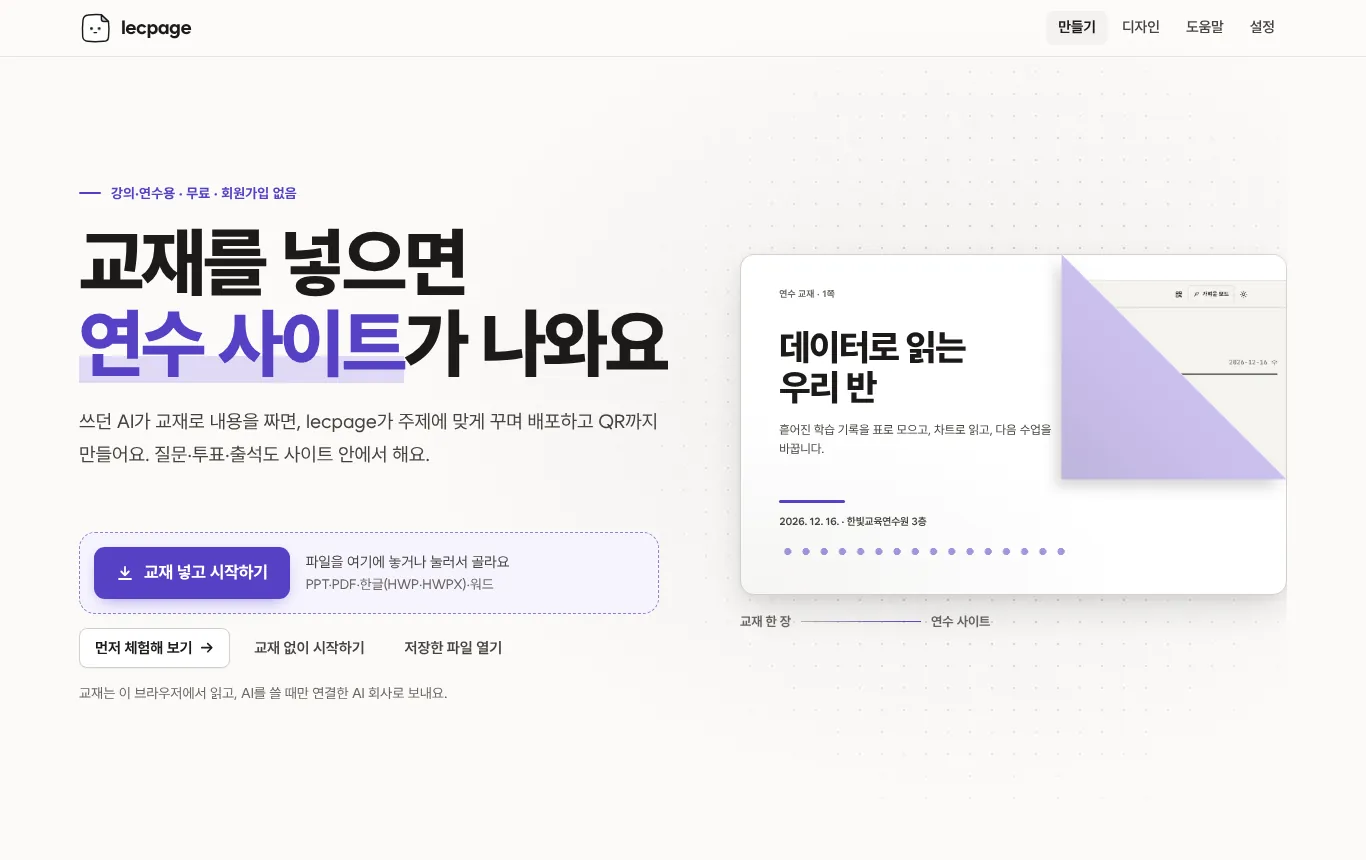
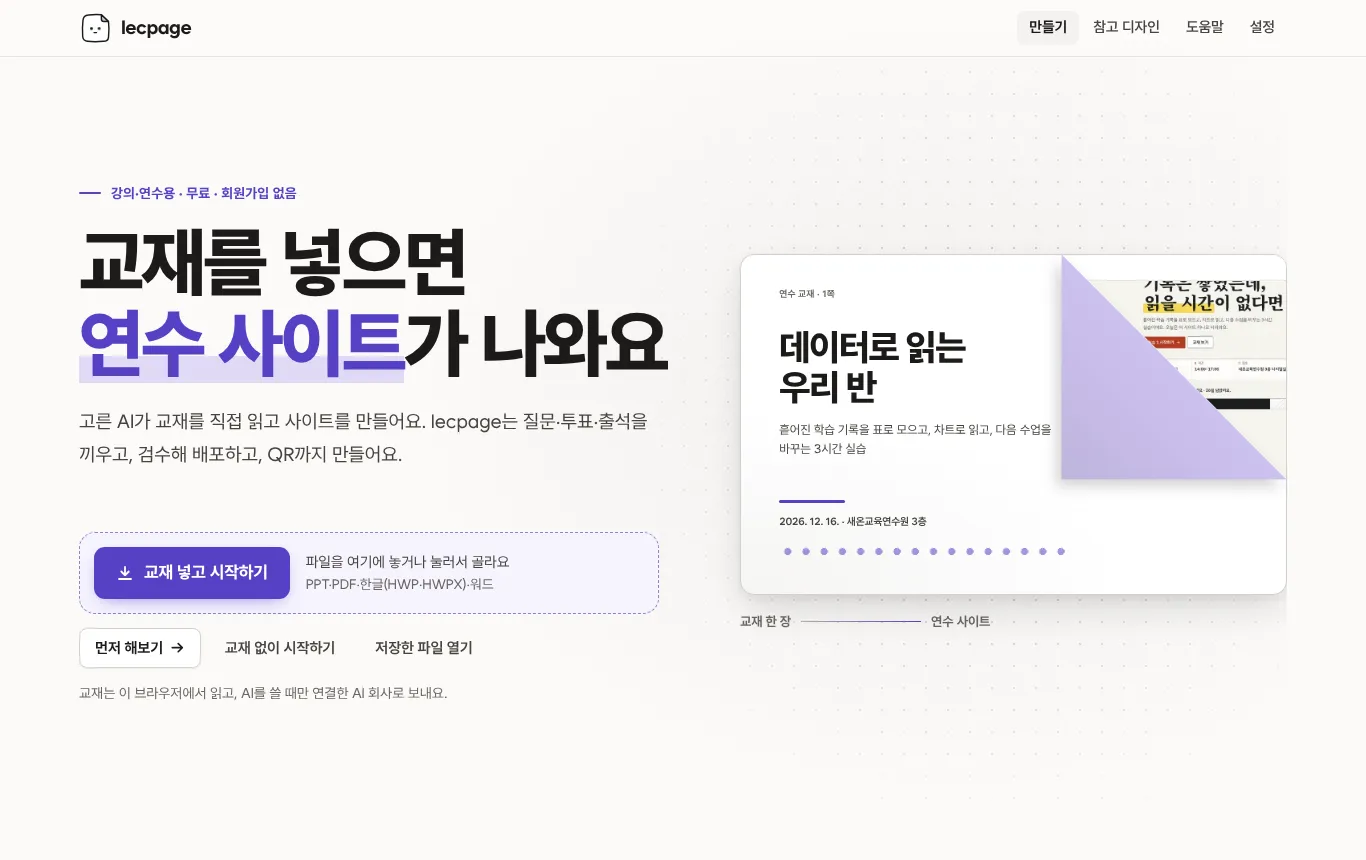
다시 만들기 중에는 진행 단계, 멈추거나 실패하면 완성 화면 위 띠(이어서 하기·그만두기, 지금 사이트 그대로), 쓰던 AI 창에서 고친 사이트 전체가 연수 정보 없이 오면 지금 연수 정보를 지킴, README 첫 화면 그림 새로
Claude-Session: https://claude.ai/code/session_01HqP3sDeio7vDaD8gojGxBH

diff --git a/app/src/pages/steps/Studio.jsx b/app/src/pages/steps/Studio.jsx
@@ -2,7 +2,7 @@ import { useCallback, useEffect, useMemo, useRef, useState } from 'preact/hooks'
 import { StepHead } from '../Project.jsx';
 import { Field, Tabs, Dialog, Notice } from '../../components/ui.jsx';
 import { SitePreview } from '../../components/Preview.jsx';
-import { editSite, chatEditPrompt, acceptChatAnswer, runInspect, fixIssues, stopGeneration, resumeGeneration, bridgeStatus } from '../../lib/studio.js';
+import { editSite, chatEditPrompt, acceptChatAnswer, runInspect, fixIssues, stopGeneration, resumeGeneration, forgetGeneration, bridgeStatus } from '../../lib/studio.js';
 import { getActiveAI, PROVIDERS, CHATBOTS, setChatbot } from '../../lib/ai.js';
 import { listSections, moveSection, setHidden, removeSection, renameSection, setText, setImage, imageAt, replaceText, getVar, setVar, readCss, writeCss } from '../../lib/site-doc.js';
 import { firstSession, keepTeacher, pushVersion } from '../../lib/site-meta.js';
@@ -88,7 +88,7 @@ export function Studio({ p, update, go, job, idle, reload }) {
         </div>
       </StepHead>
       {working && <JobBand job={job} onStop={() => stopGeneration(p.id)} />}
-      {(job.status === 'error' || job.status === 'paused') && job.kind && job.kind !== 'make' && <JobError p={p} job={job} go={go} />}
+      {(job.status === 'error' || job.status === 'paused') && job.kind && <JobError p={p} job={job} go={go} />}
       {!p.metaChecked && tab !== 'info' && <div class="ai-job" role="status"><span class="ai-job-t"><b>AI가 교재에서 찾은 연수 정보를 한 번 확인해 주세요.</b><small>QR 안내문·강사 화면·일정 파일에 쓰여요.</small></span><button type="button" class="btn btn-sm btn-primary" onClick={() => setTab('info')}>확인하기</button></div>}
       {p.notes?.length > 0 && <div class="ai-job" role="status"><span class="ai-job-t"><b>답을 받으며 알게 된 것</b><small>{p.notes.join(' ')}</small></span><button class="icon-btn" onClick={() => update({ notes: undefined })} aria-label="안내 닫기">✕</button></div>}
       <div class="workspace">
@@ -133,11 +133,14 @@ function JobBand({ job, onStop }) {
 
 /** AI가 고치다 멈춤(수정 요청·검수 고치기): 까닭과 할 일. 사이트는 그대로 */
 function JobError({ p, job, go }) {
-  // 다른 AI·쓰던 AI 창으로는 [수정 요청]에서 보낼 곳을 바꿔 다시 보냄
-  const acts = job.status === 'paused' ? [{ id: 'resume', label: '이어서 하기', run: () => resumeGeneration(p.id) }] : errorActions(p, job, go).filter((a) => a.id !== 'connect' && a.id !== 'paste');
+  // 고치기: 다른 AI·쓰던 AI 창으로는 [수정 요청]에서 보낼 곳을 바꿔 다시 보냄. 다시 만들기: 다른 AI 고르기·쓰던 AI 창은 교재 넣기에서
+  const make = job.kind === 'make';
+  const acts = [...(job.status === 'paused' ? [{ id: 'resume', label: '이어서 하기', run: () => resumeGeneration(p.id) }] : errorActions(p, job, go).filter((a) => make || (a.id !== 'connect' && a.id !== 'paste'))),
+    { id: 'forget', label: '그만두기', run: () => forgetGeneration(p.id) }];
   const e = job.error || {};
+  const what = make ? '다시 만들기' : '고치기';
   return (
-    <div class="ai-job bad" role="alert"><span class="ai-job-t"><b>{job.status === 'paused' ? 'AI가 고치기를 멈췄어요.' : e.title || 'AI가 고치지 못했어요.'}</b><small>{job.status === 'paused' ? '사이트는 그대로예요. [이어서 하기]를 누르면 멈춘 단계부터 해요.' : e.body || '사이트는 그대로예요.'}</small></span>
+    <div class="ai-job bad" role="alert"><span class="ai-job-t"><b>{job.status === 'paused' ? `AI가 ${what}를 멈췄어요.` : e.title || `AI가 ${make ? '다시 만들지' : '고치지'} 못했어요.`}</b><small>{job.status === 'paused' ? '지금 사이트는 그대로예요. [이어서 하기]를 누르면 멈춘 단계부터 해요.' : `${e.body || ''} 지금 사이트는 그대로예요.`.trim()}</small></span>
       {acts.map((a, i) => (a.href ? <a class={`btn btn-sm${i ? '' : ' btn-primary'}`} href={a.href} target="_blank" rel="noopener">{a.label}<span class="ext" aria-hidden="true">↗</span></a>
         : <button type="button" class={`btn btn-sm${i ? '' : ' btn-primary'}`} onClick={a.run}>{a.label}</button>))}
     </div>

diff --git a/app/src/lib/gen/index.js b/app/src/lib/gen/index.js
@@ -7,7 +7,7 @@
 import { useEffect, useState } from 'preact/hooks';
 import { projects } from '../db.js';
 import { uid } from '../util.js';
-import { startJob, resumeJob, stopJob, currentView, liveView, onJobChange, resumeIfOrphaned, inspectSite, notifySaved, versionsAfter, settle } from './job.js';
+import { startJob, resumeJob, stopJob, forgetJob, currentView, liveView, onJobChange, resumeIfOrphaned, inspectSite, notifySaved, versionsAfter, settle } from './job.js';
 import { chatDb } from './store.js';
 import * as P from './prompts.js';
 import { parseChatAnswer, extractHtml, extractSections, extractCss, replaceSections, stitch, htmlCut, trimCss } from './parse.js';
@@ -33,6 +33,8 @@ export async function startGeneration(pid, o = {}) {
 export async function resumeGeneration(pid, change = {}) { return (await resumeJob(pid, change)).jobId; }
 /** 멈추기 → status 'paused'. resumeGeneration으로 멈춘 단계부터 */
 export function stopGeneration(pid) { return stopJob(pid); }
+/** 멈추거나 실패한 작업을 그만둠(기록을 지움 → status 'idle'). 도는 중이면 하지 않음 */
+export function forgetGeneration(pid) { return forgetJob(pid); }
 
 /**
  * 진행 상태(Preact 훅). 도는 동안 1초마다 now를 넣어 다시 그림(걸린 시간).
@@ -138,11 +140,12 @@ export async function acceptChatAnswer(pid, input, { target = '' } = {}) {
   const { html, css } = splitStyles(a.html);
   const site = { 'index.html': html, ...(css ? { 'assets/style.css': css } : {}) };
   const titleTag = (/<title>([^<]*)<\/title>/i.exec(html) || [])[1] || '';
-  const raw = a.meta || { title: titleTag.trim() };
+  // 고친 사이트 전체가 왔는데 연수 정보가 없으면 지금 연수 정보를 그대로(새로 만들 때만 제목으로 시작)
+  const raw = a.meta || (edit ? { ...(p.meta || {}) } : { title: titleTag.trim() });
   if (!raw.title && titleTag) raw.title = titleTag.trim();
   const r = readMeta({ ...raw, theme: { ...(raw.theme || {}), ...themeFromCss(css) } }, { prev: p.meta });
   const problems = [
-    ...(a.meta ? [] : ['답 끝에 연수 정보(lecpage.json)가 없어 제목만 읽었어요. 연수 정보에서 확인해 주세요.']),
+    ...(a.meta || edit ? [] : ['답 끝에 연수 정보(lecpage.json)가 없어 제목만 읽었어요. 연수 정보에서 확인해 주세요.']),
     ...(r.meta.sessions?.some((s) => s?.date) ? [] : ['답에 연수 날짜가 없어요. 연수 정보에서 넣어 주세요.']),
     ...r.warnings.filter((w) => w.code !== 'teacher-value' && w.code !== 'title-empty').slice(0, 3).map((w) => w.message_ko),
   ];

diff --git a/app/src/lib/gen/job.js b/app/src/lib/gen/job.js
@@ -37,7 +37,7 @@ if (bc) {
   bc.onmessage = async (e) => {
     const m = e.data; if (!m?.pid) return;
     if (m.cmd === 'stop') { if (live.get(m.pid)?.ctrl) stopJob(m.pid); return; } // 다른 탭에서 [멈추기]를 누름 → 돌리는 이 탭이 멈춤
-    const rec = await jobsDb.get(m.pid).catch(() => null); if (rec) remote.set(m.pid, rec); emit(m.pid);
+    const rec = await jobsDb.get(m.pid).catch(() => null); if (rec) remote.set(m.pid, rec); else remote.delete(m.pid); emit(m.pid);
   };
 }
 
@@ -678,6 +678,18 @@ export function stopJob(pid) {
   const L = live.get(pid);
   if (!L?.ctrl) { try { bc?.postMessage({ pid, cmd: 'stop' }); } catch { /* 알림만 못 함 */ } return false; }
   L.stopReason = 'user'; L.ctrl.abort(); autoResume.delete(pid);
+  return true;
+}
+
+/** 멈춘·실패한 작업 기록을 지움(그만두기: 받은 글·이어 할 자리도 버림). 도는 중이면 하지 않음 */
+export async function forgetJob(pid) {
+  if (live.get(pid)?.ctrl) return false;
+  const rec = await jobsDb.get(pid).catch(() => null);
+  if (rec?.status === 'running' && await heldElsewhere(pid)) return false;
+  await jobsDb.del(pid).catch(() => { });
+  live.delete(pid); remote.delete(pid); autoResume.delete(pid);
+  try { bc?.postMessage({ pid, id: rec?.id || '', at: Date.now() }); } catch { /* 알림만 못 함 */ }
+  emit(pid);
   return true;
 }
 

diff --git a/app/src/lib/studio.js b/app/src/lib/studio.js
@@ -1,4 +1,4 @@
 // 화면이 생성·조립 쪽을 부르는 단 한 곳(docs/plan-ai-first.md §15 앱 안의 약속). 화면은 이 파일만 import합니다.
 // 생성(키·내 PC·먼저 해보기·쓰던 AI 창)은 lib/gen, 조립은 엔진 키트(E.kit)를 lib/gen/preview.js의 assembleProject 한 곳으로.
-export { startGeneration, resumeGeneration, stopGeneration, useGeneration, chatPrompt, acceptChatAnswer, editSite, chatEditPrompt, runInspect, fixIssues, bridgeStatus, assembleProject } from './gen/index.js';
+export { startGeneration, resumeGeneration, stopGeneration, forgetGeneration, useGeneration, chatPrompt, acceptChatAnswer, editSite, chatEditPrompt, runInspect, fixIssues, bridgeStatus, assembleProject } from './gen/index.js';
 export { previewHtml } from '@engine/src/kit/index.js';

diff --git a/app/src/landing/Paths.jsx b/app/src/landing/Paths.jsx
@@ -35,7 +35,7 @@ export function Paths() {
       <div class="ld-skill">
         <div>
           <h3 class="ld-h3">AI 에이전트에서 쓰기</h3>
-          <p>Claude Code·Codex·Cursor·Gemini CLI에 lecpage 스킬을 한 줄로 넣어요. 에이전트가 교재를 읽고 사이트를 직접 쓰면 lecpage가 조립·검수해요. 고치거나 배포할 때는 앱에서 이어서 해요.</p>
+          <p>Claude Code·Codex·Cursor·Gemini CLI에 lecpage 스킬을 한 줄로 넣어요. AI 에이전트가 교재를 읽고 사이트를 직접 쓰면 lecpage가 조립·검수해요. 고치거나 배포할 때는 앱에서 이어서 해요.</p>
           <a class="ld-cmd-help" href="#/help/skill">AI 에이전트에서 쓰는 법</a>
         </div>
         <div class="ld-cmds">
